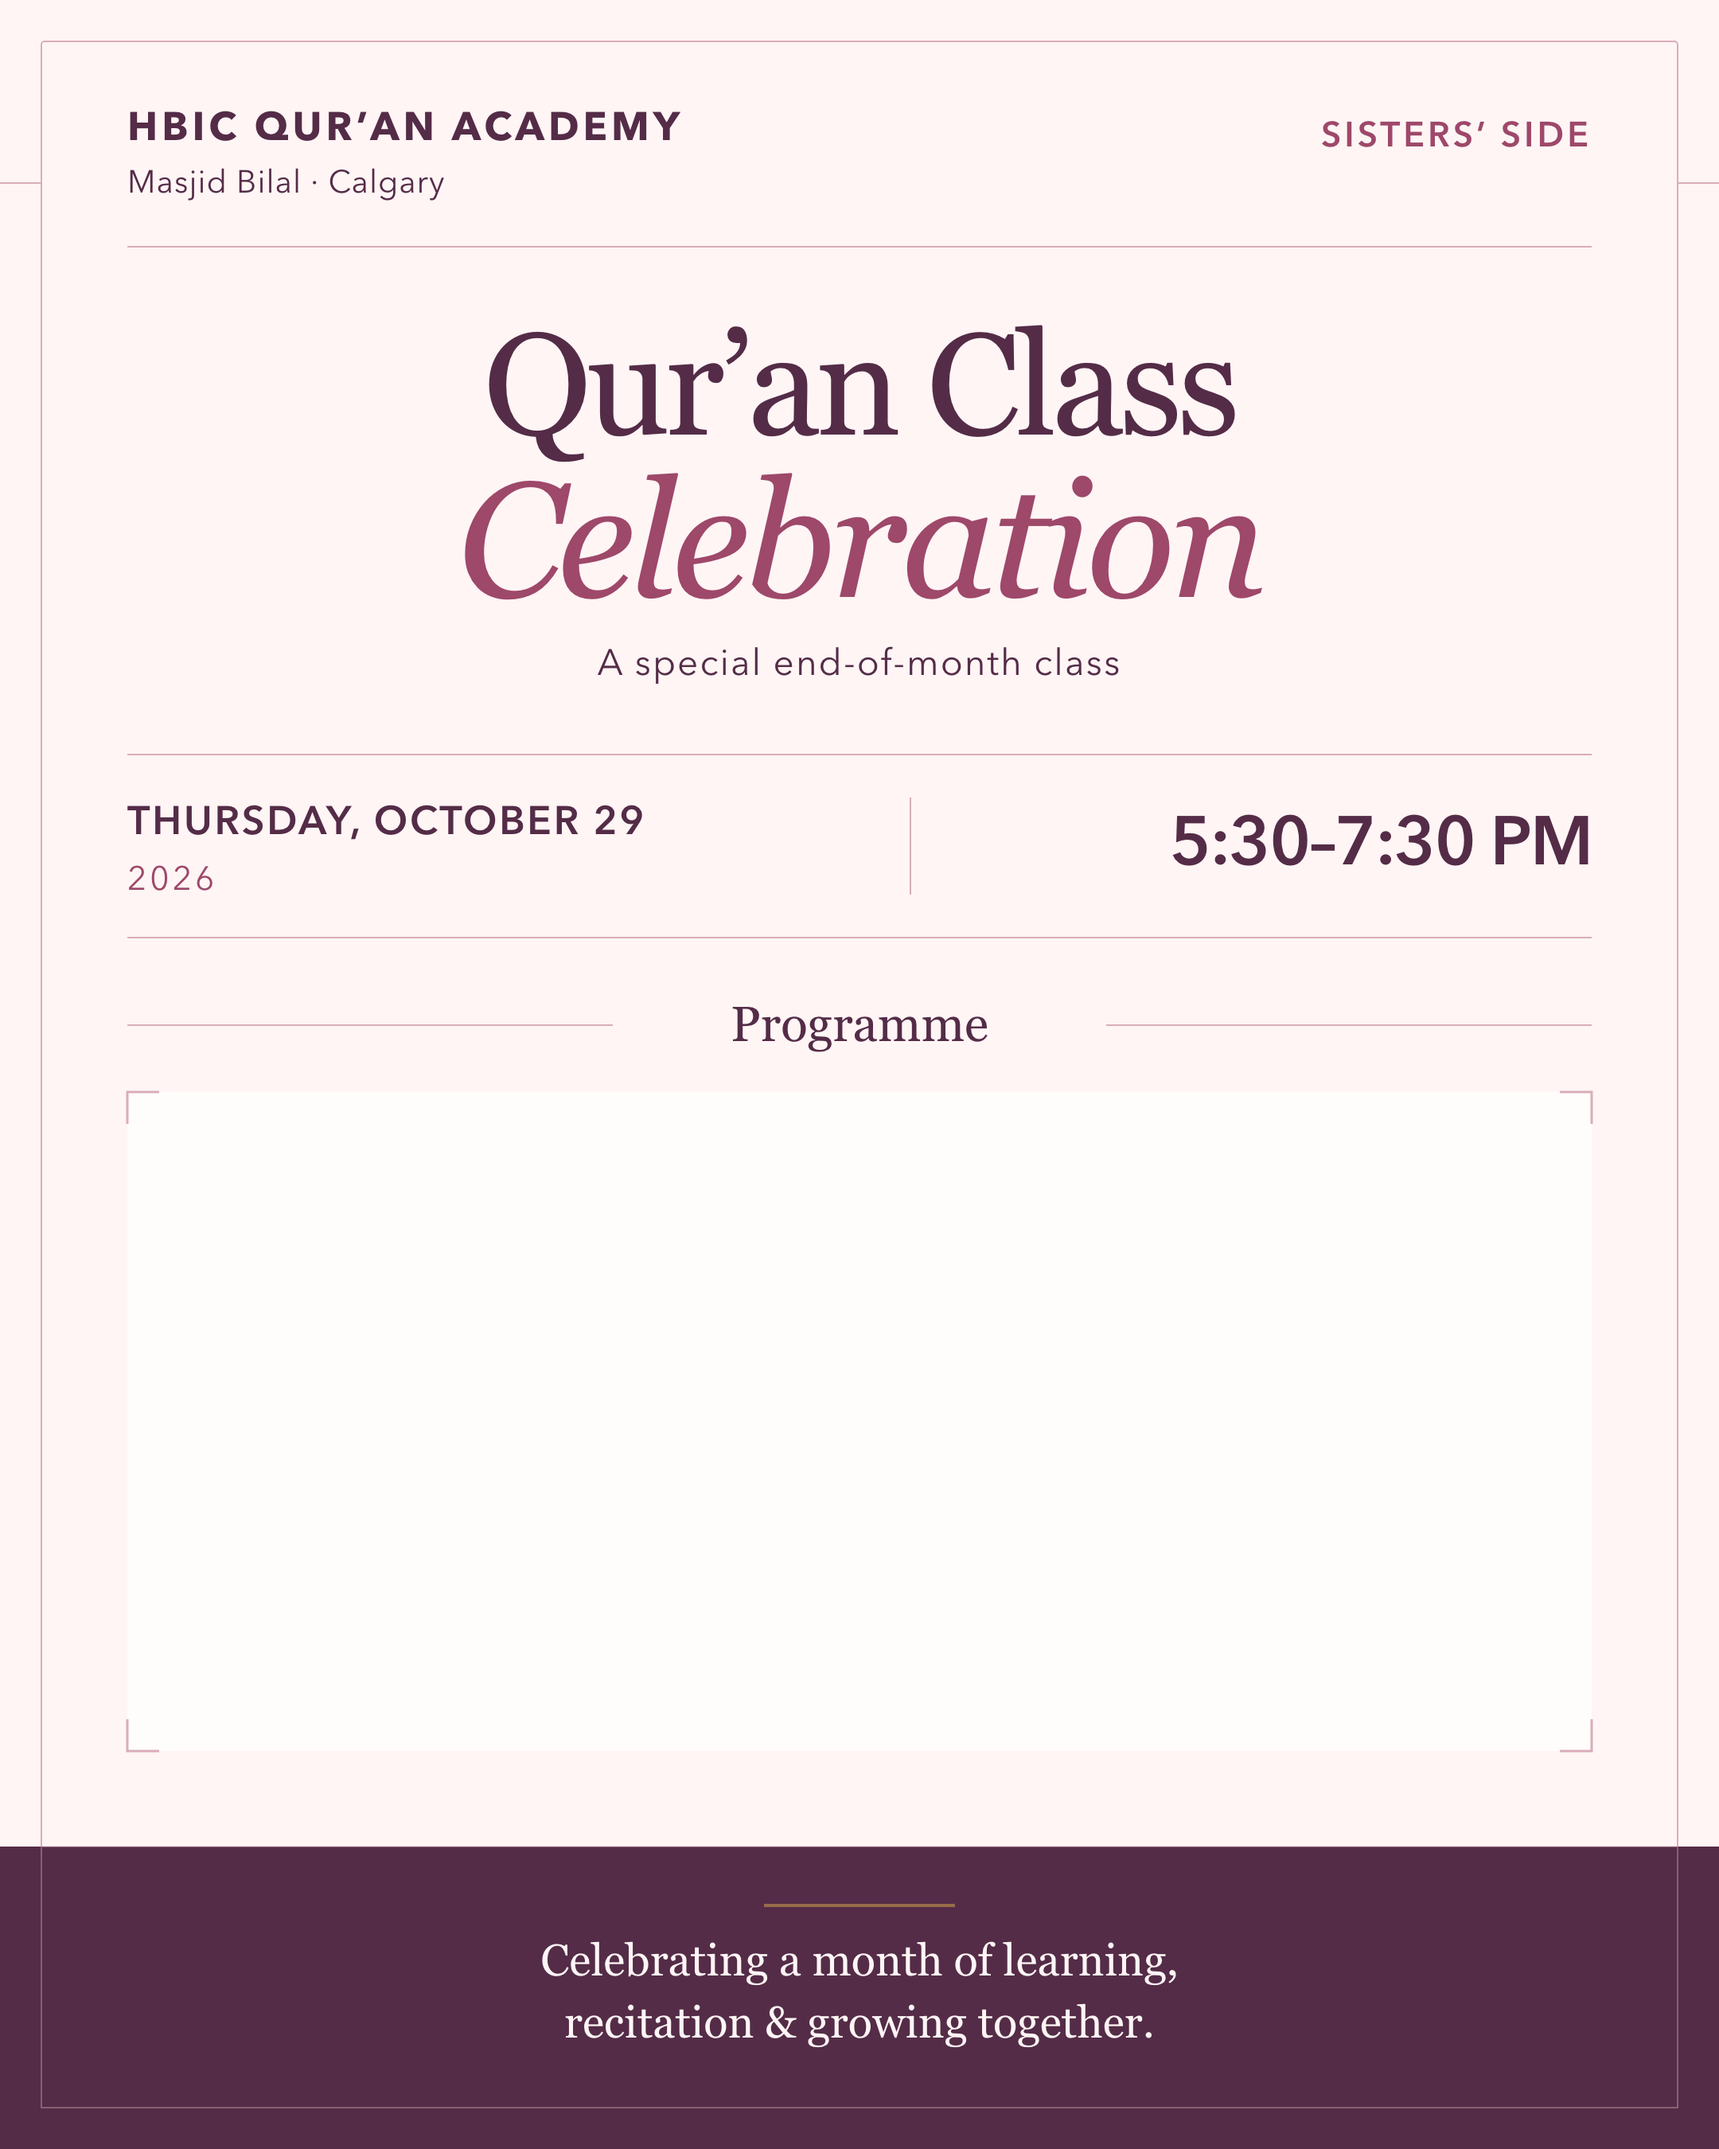
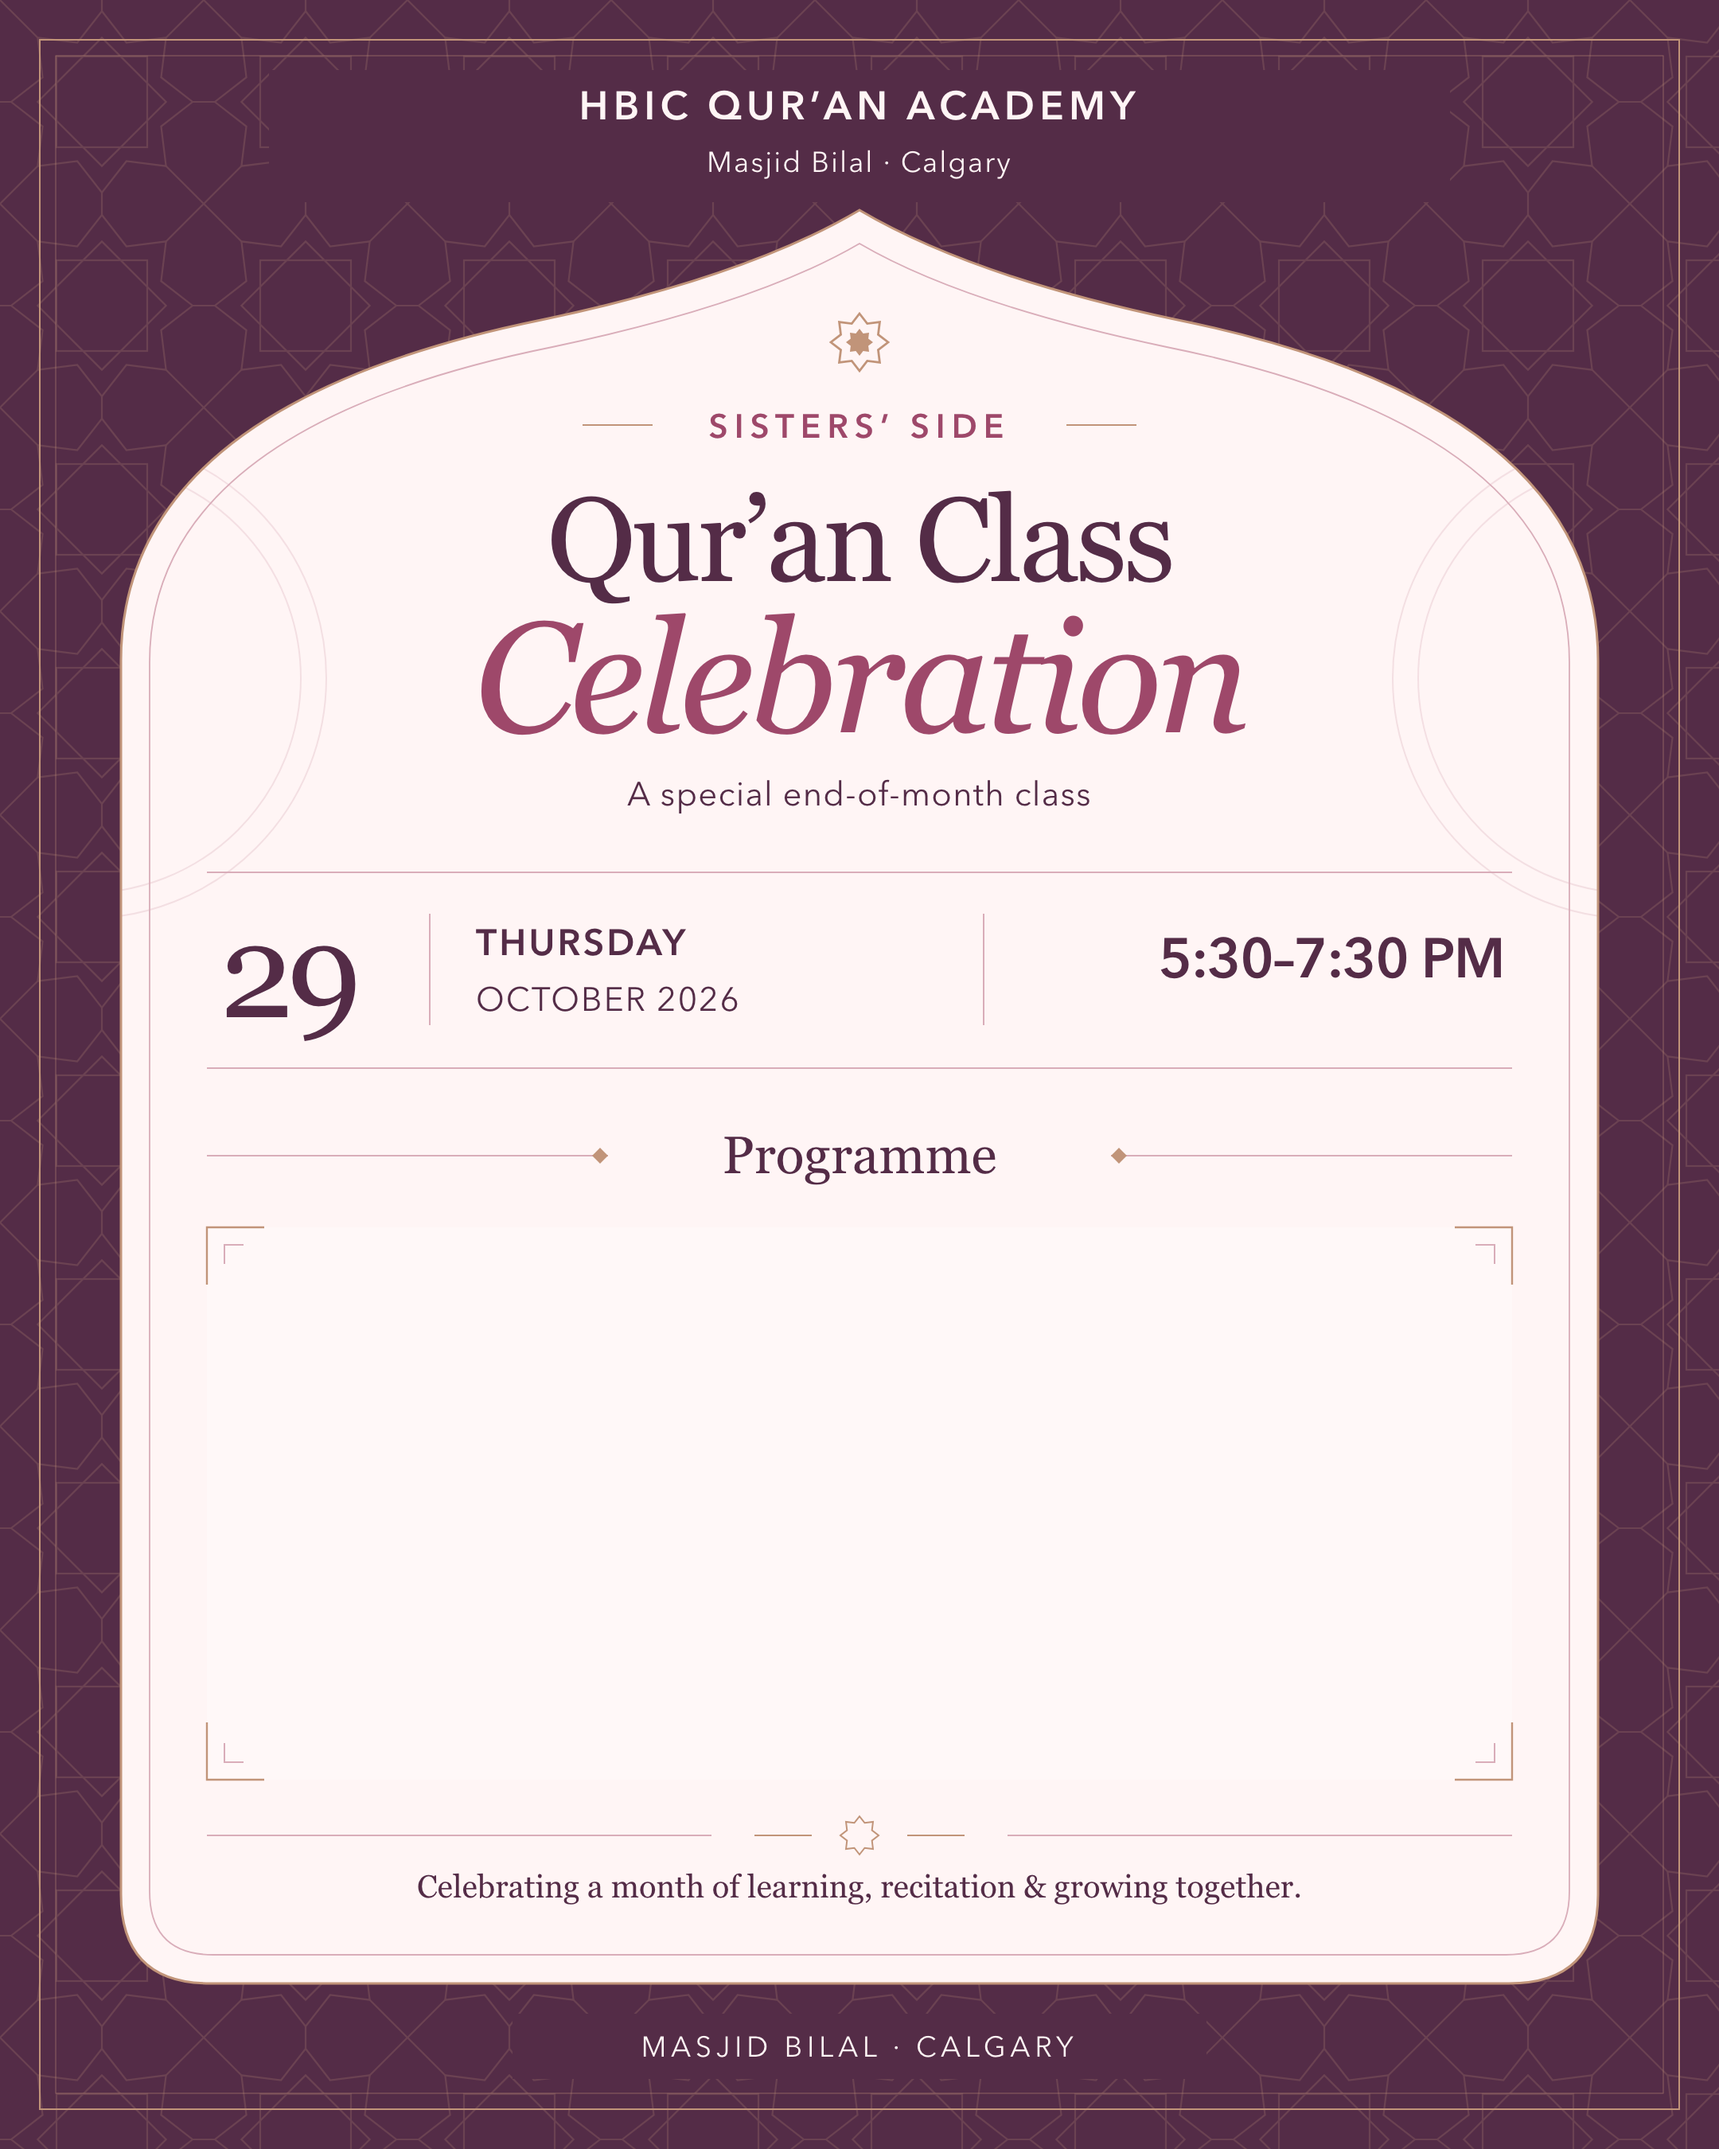
Refine Academy posters with geometric frames and richer palettes

diff --git a/assets/academy-celebration/Design Brief.md b/assets/academy-celebration/Design Brief.md
@@ -9,6 +9,8 @@ The current artwork replaces the earlier teaser design. It has no generated imag
 - Sisters: plum, rose and warm blush.
 - Both: a completed event-poster layout with one intentionally empty centre programme field. No activities, menu or segment times have been invented. Teaser phrases and gift imagery have been removed.
 
+The refined editions use a pointed-arch central panel, a fine eight-point geometric border, double keylines, restrained gold accents and a prominent day-of-month layout. These are authored vector paths and typeset text, rather than generated pictures. The blank programme area remains clear of ornament, with corner details outside its usable space.
+
 ## Files
 
 Each edition includes a 2160 × 2700 PNG for sharing and a 1080 × 1350 editable SVG source. The SVG has live text; install the named fonts when editing to retain the same layout. The PNG preserves the rendered typography on any device.
